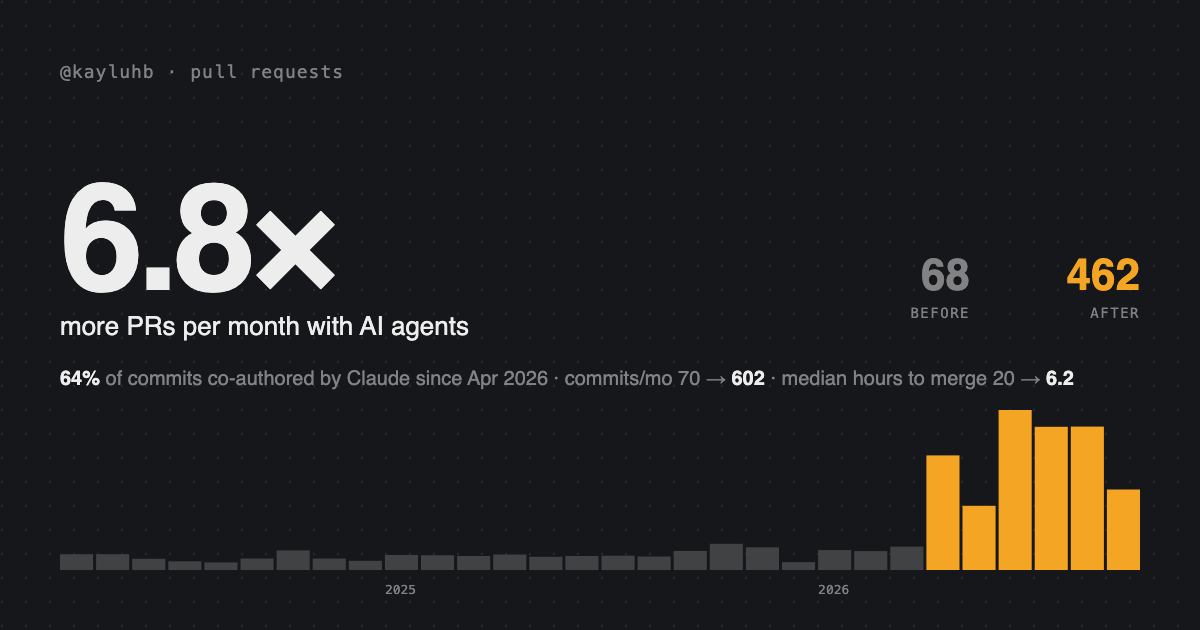
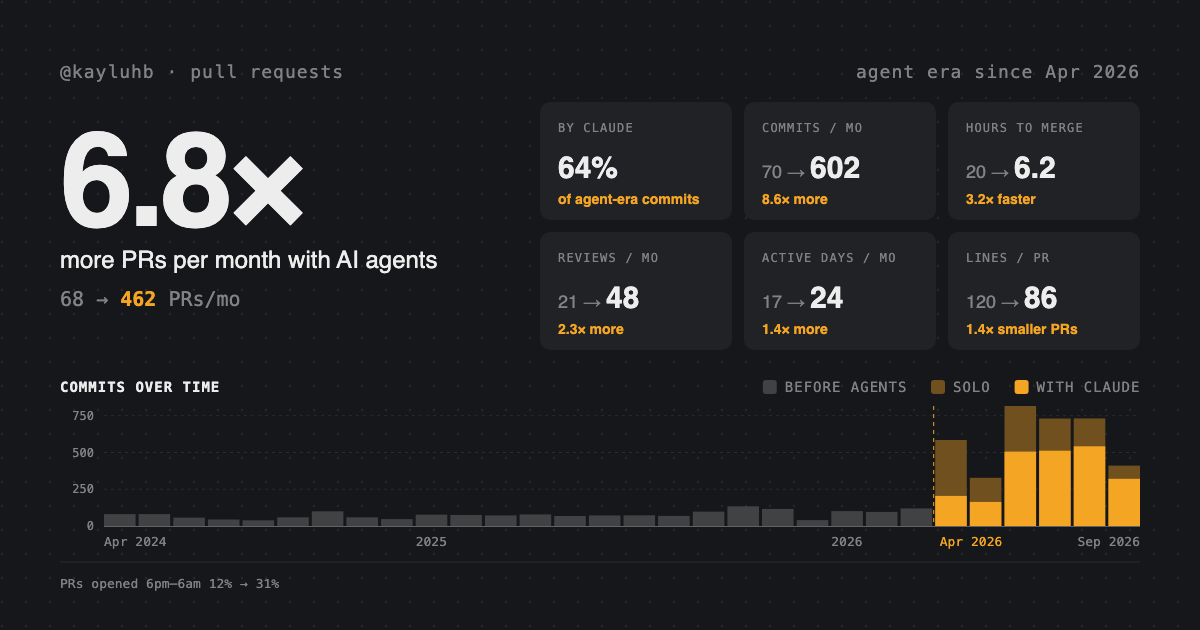
docs: refresh README images and add npm run docs:images (#4)
* docs: refresh README card and summary images for the new layout

* chore: add npm run docs:images to rebuild the README images

---------

diff --git a/scripts/docs-images.js b/scripts/docs-images.js
@@ -1,0 +1,127 @@
+// Renders the README images in docs/ from the test fixture: `npm run docs:images`.
+import { execFile } from 'node:child_process';
+import { mkdtemp, rm, writeFile } from 'node:fs/promises';
+import { tmpdir } from 'node:os';
+import { join, resolve } from 'node:path';
+import { pathToFileURL } from 'node:url';
+import { promisify } from 'node:util';
+import { renderCardSvg } from '../src/card.js';
+import { findChrome, renderPng } from '../src/render.js';
+import { formatSummary } from '../src/summary.js';
+import { DEFAULT_THEME } from '../src/theme.js';
+import { calebStats } from '../test/fixtures/caleb-stats.js';
+
+const DOCS = resolve(import.meta.dirname, '../docs');
+const SUMMARY_SIZE = '1000,905';
+
+const THEMES = {
+  default: DEFAULT_THEME,
+  dracula: {
+    background: '#282a36',
+    foreground: '#f8f8f2',
+    accent: '#bd93f9',
+    accentName: 'magenta',
+  },
+  'solarized-light': {
+    background: '#fdf6e3',
+    foreground: '#586e75',
+    accent: '#268bd2',
+    accentName: 'blue',
+  },
+};
+
+// Example Claude share of each agent-era month's commits.
+const CLAUDE_SHARES = {
+  '2026-04': 0.35,
+  '2026-05': 0.5,
+  '2026-06': 0.62,
+  '2026-07': 0.7,
+  '2026-08': 0.74,
+  '2026-09': 0.78,
+};
+
+// The fixture has PRs only; the rest are made-up example numbers.
+function exampleStats() {
+  const commitsMonthly = Object.fromEntries(
+    Object.entries(calebStats.prs.monthly)
+      .filter(([month]) => month >= '2024-01' && month <= '2026-09')
+      .map(([month, prs]) => [month, Math.round(prs * 1.3)]),
+  );
+  const claudeMonthly = Object.fromEntries(
+    Object.entries(CLAUDE_SHARES).map(([month, share]) => [
+      month,
+      Math.round(commitsMonthly[month] * share),
+    ]),
+  );
+  return {
+    ...calebStats,
+    eraSource: 'trailers',
+    commits: {
+      ...calebStats.commits,
+      monthly: commitsMonthly,
+      yearly: {
+        2011: 12,
+        2016: 610,
+        2017: 1840,
+        2024: 1120,
+        2025: 900,
+        2026: 4200,
+      },
+      coauthored: { Claude: 0.64, Cursor: 0.03 },
+      coauthoredMonthly: { Claude: claudeMonthly, Cursor: {} },
+    },
+    mergeHours: { before: 20, after: 6.2 },
+    mergeRate: { before: 0.84, after: 0.91 },
+    reviews: { before: 21, after: 48 },
+    activeDays: { before: 17, after: 24 },
+    afterHours: { before: 0.12, after: 0.31 },
+    repos: { before: 14, after: 31 },
+    languages: { before: 5, after: 9 },
+    colors: { source: 'Ghostty', accentName: 'yellow' },
+  };
+}
+
+const escapeHtml = (text) => text.replace(/&/g, '&amp;').replace(/</g, '&lt;');
+
+function terminalHtml(text) {
+  return `<!doctype html><meta charset="utf-8"><style>
+html,body{margin:0;background:#fff}
+.win{width:1000px;background:#17181c;border-radius:12px;overflow:hidden;font:15px/1.55 'SF Mono',Menlo,monospace;color:#ececec}
+.bar{height:38px;background:#2a2b30;display:flex;align-items:center;gap:8px;padding-left:14px}
+.bar i{width:12px;height:12px;border-radius:50%;display:block}
+pre{margin:0;padding:22px 20px 26px;font:inherit;white-space:pre-wrap}
+.prompt{color:#f5a524}</style>
+<div class="win"><div class="bar"><i style="background:#ff5f57"></i><i style="background:#febc2e"></i><i style="background:#28c840"></i></div>
+<pre><span class="prompt">❯</span> /agent-era\n\n${escapeHtml(text)}</pre></div>`;
+}
+
+const chrome = findChrome();
+if (!chrome) throw new Error('Chrome or Chromium is needed to render images');
+const stats = exampleStats();
+
+for (const [name, theme] of Object.entries(THEMES)) {
+  await renderPng(renderCardSvg(stats, theme), join(DOCS, `card-${name}.png`), {
+    chrome,
+  });
+}
+
+const dir = await mkdtemp(join(tmpdir(), 'agent-era-docs-'));
+try {
+  const html = join(dir, 'summary.html');
+  await writeFile(
+    html,
+    terminalHtml(formatSummary(stats, './agent-era-kayluhb.png')),
+  );
+  await promisify(execFile)(chrome, [
+    '--headless',
+    '--disable-gpu',
+    '--hide-scrollbars',
+    '--force-device-scale-factor=2',
+    `--window-size=${SUMMARY_SIZE}`,
+    `--screenshot=${join(DOCS, 'summary.png')}`,
+    pathToFileURL(html).href,
+  ]);
+} finally {
+  await rm(dir, { recursive: true, force: true });
+}
+console.log(`Wrote README images to ${DOCS}`);

diff --git a/README.md b/README.md
@@ -124,4 +124,5 @@ If one of your orgs requires SSO and hasn't authorized the GitHub CLI, its PRs w
 npm install   # dev tools only (Biome)
 npm test
 npm run check
+npm run docs:images   # re-render the README images in docs/ (needs Chrome)
 ```
